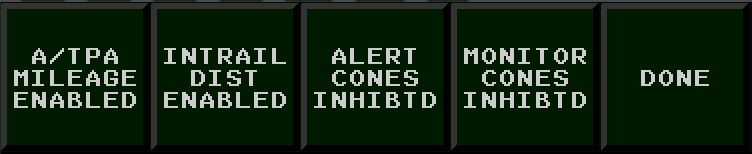
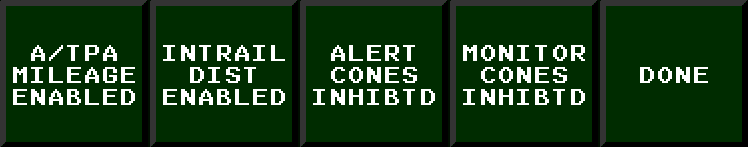
Ongoing documentation work

Changed region(s): [[0.0, 0.0, 1.0, 1.0], [0.0, 0.2993, 0.1845, 0.7347]]

diff --git a/website/index.html b/website/index.html
@@ -1862,9 +1862,8 @@ how it simulates aircraft or the STARS interface.
             <p>The display control bar (DCB) is a menu that is shown by default at the top of the STARS window.
               Many aspects of STARS's behavior can be configured using the DCB.</p>
             <div class="text-center">
-              <img src="dcb-basic.png" srcset="dcb-basic-2x.png 2x" width="1428" height="76" style="max-width: 100%; height:auto;">
-            </div>
-            <br>
+              <img src="dcb-basic.png" srcset="dcb-basic-2x.png 2x" width="1423" height="74"  style="max-width: 100%; height:auto;">
+            </div><br>
             <p>There are four types of buttons in the DCB:</p>
               <ul>
                 <li>Toggle buttons: these enable and disable various features. When enabled, they have a lighter
@@ -1880,8 +1879,8 @@ how it simulates aircraft or the STARS interface.
 
             <p>The main DCB menu offers the following controls:</p>
               <ul>
-                <li>RANGE: sets the range of the radar scope (see <a href="#stars-configuration">STARS Configuration</a>).</li>
-                <li>PLACE CNTR/OFF CNTR: controls to set the center point of the radar scope (see <a href="#stars-configuration">STARS Configuration</a>).</li>
+                <li>RANGE: sets the range of the radar scope (see <a href="#stars-range-center">STARS Configuration</a>).</li>
+                <li>PLACE CNTR/OFF CNTR: controls to set the center point of the radar scope (see <a href="#stars-range-center">STARS Configuration</a>).</li>
                 <li>RR/PLACE RR/RR CNTR: controls for <a href="#stars-range-rings">range rings</a> that are shown on the display</li>
                 <li>MAPS (and the six buttons to the right): controls the <a href="#stars-video-maps">visible video maps</a>.</li>
                 <li>WX*: controls which levels of <a href="#stars-weather">weather intensity</a> are displayed.</li>
@@ -1895,12 +1894,12 @@ how it simulates aircraft or the STARS interface.
               </ul>
             <p>Here is the auxiliary DCB:</p>
             <div class="text-center">
-              <img src="dcb-aux.png" srcset="dcb-aux-2x.png 2x" width="1202" height="76" style="max-width: 100%; height:auto;">
+              <img src="dcb-aux.png" srcset="dcb-aux-2x.png 2x" width="1193" height="75" style="max-width: 100%; height:auto;">
             </div>
             <br>
             <p>Many of its buttons are disabled; the enabled ones are:</p>
               <ul>
-                <li>VOL: controls the volume of STARS audio alerts. A short test sound is played when it is changed.</li>
+                <li>VOL: controls the volume of <a href="#audio-alerts">STARS audio alerts</a>. A short test sound is played when it is changed.</li>
                 <li>HISTORY: sets the number of dots drawn showing the aircraft's <a href="#stars-track-ids-history">radar track history</a>.</li>
                 <li>H_RATE: sets the rate in seconds that a new dot is added to aircraft history trails.</li>
                 <li>DCB LEFT/RIGHT/TOP/BOTTOM: sets the side of the radar scope where the DCB is displayed.</li>
@@ -2139,7 +2138,7 @@ how it simulates aircraft or the STARS interface.
               to a 5 second overall rate.</p>
             <p>The brightness of track symbols is controlled with "HST" in the DCB BRITE menu.</p>
 
-            <h3>Position Symbols</h3>
+            <h3 id="stars-position-symbols">Position Symbols</h3>
 
             <p>All tracks have a single-character <i>position symbol</i> at
               their center that indicates which controller owns the track.
@@ -2642,7 +2641,7 @@ how it simulates aircraft or the STARS interface.
               moves away. Only when another track is approached by the mouse cursor does the brightness increase switch to it.
               </p>
         <div class="text-center">
-          <img src="dwell-dcb.png" srcset="dwell-dcb-2x.png 2x" width="74" height="74">
+          <img src="dwell-dcb.png" srcset="dwell-dcb-2x.png 2x" width="75" height="74">
         </div><br>
       
         <h3 id="stars-altitude-filter">Altitude Filters</h3>
@@ -2697,7 +2696,8 @@ how it simulates aircraft or the STARS interface.
             <h2 class="section-heading">Tools</h2>
 
             <p>STARS offers a variety of tools to help with vectoring aircraft and ensuring they
-            remain separated.</p>
+              remain separated. For most of the tools in this section, the font size is based on the TOOLS font
+              size in the CHAR SIZE menu of the DCB and the brightness is based on the TLS setting in the BRITE menu of the DCB.</p>
 
             <h3 id="stars-collision-alerts">Collision Alerts</h3>
             <p>If there is a loss of separation between aircraft or if STARS predicts an imminent loss of separation, a collision alert will be issued where red text "CA" is shown in the aircraft datablocks and an alert sound will be played. The alert sound continues until one of the aircraft is slewed.  Here is an example of a pair of aircraft with CA alerts:</p>
@@ -2789,7 +2789,7 @@ how it simulates aircraft or the STARS interface.
             <p>PTLs can be controlled using these buttons in the auxiliary DCB menu, which is shown by
               selecting SHIFT from the main DCB.</p>
             <div class="text-center">
-              <img src="ptl-dcb.png" srcset="ptl-dcb-2x.png 2x" width="149" height="76">
+              <img src="ptl-dcb.png" srcset="ptl-dcb-2x.png 2x" width="149" height="75">
             </div>
             <br>
             <p>PTL OWN sets whether PTLs are shown for tracks that are owned by the TCP,
@@ -2814,16 +2814,19 @@ how it simulates aircraft or the STARS interface.
             
             <h3>Range Bearing Lines</h3>
             <p>Range bearing lines (RBLs) track the distance and heading between aircraft and/or fixes.
-              For example, the image below shows an RBL between two aircraft, indicating that WJA466 is 8.46nm
-              miles along a 246 heading for DLH0VZ.  (Alternatively, the RBL could have been set up to be
-              from WJA466 to DLH0VZ, in which case the distance would be the same but the heading would be 246-180=66.
-              The "-1" at the end indicates that this is RBL number 1.  If additional RBLs were created, they would
+              For example, the image below shows an RBL between two aircraft, indicating that N63A is 6.50nm
+              miles along a 118 heading from AAL86.  In this case, the RBL was drawn from AAL86 to N63A; if it
+              had been drawn the other way, the label would be next to AAL86 and the heading would be 118+180=298.
+              The "-1" at the end of the label indicates that this is RBL number 1.  If additional RBLs were created, they would
               be given successive numbers to identify them.
               </p>
             <div class="text-center">
-              <img src="rbl-aircraft.png" srcset="rbl-aircraft-2x.png 2x" width="442" height="198" class="img-fluid" alt="tpa ring">
+              <img src="rbl-aircraft.png" srcset="rbl-aircraft-2x.png 2x" width="228" height="120" class="img-fluid">
             </div>
             <br>
+            <p>RBLs may be created between pairs of aircraft, and aircraft and a fixed location, or a pair of fixed locations.
+              When aircraft are involved, the corresponding RBL endpoint moves along with the aircraft.
+              </p>
             <p>The following commands are available to create and delete RBLs:</p>
               <table class="table table-bordered">
                 <thead>
@@ -2838,7 +2841,7 @@ how it simulates aircraft or the STARS interface.
                     <td>Create an RBL between the two slewed aircraft.</td>
                   </tr>
                   <tr>
-                    <td><code>*T[SLEW]FIX</code> or <code>*TFIX[SLEW]</code></td>
+                    <td><code>*T[SLEW](FIX)</code> or <code>*T(FIX)[SLEW]</code></td>
                     <td>Create an RBL between the slewed aircraft and the fix <code>FIX</code>.</td>
                   </tr>
                   <tr>
@@ -2856,7 +2859,7 @@ how it simulates aircraft or the STARS interface.
 
             <p>The predicted minimum separation between two aircraft can be shown. Below we
               see that based on their current routes the two aircraft are predicted to have
-              a minimum separation of 3.19nm and that separation will occur when they are at
+              a minimum separation of 2.15nm and that separation will occur when they are at
               the two points marked by small triangles.</p>
             <div class="text-center">
               <img src="minsep.png" srcset="minsep-2x.png 2x" width="371" height="106" class="img-fluid" alt="tpa ring">
@@ -2882,8 +2885,6 @@ how it simulates aircraft or the STARS interface.
                 </tbody>
               </table>
 
-              <p>TODO: BRITE (here and elsewhere)</p>
-            
             <h3 id="stars-tpa-atpa">TPA/ATPA</h3>
 
             <p>The terminal proximity alert (TPA) and automated TPA (ATPA) tools provide graphical representations that aid
@@ -2968,6 +2969,8 @@ how it simulates aircraft or the STARS interface.
               <img src="atpa-alert.png" srcset="atpa-alert-2x.png 2x" width="365" height="287" class="img-fluid" alt="ATPA alert cone">
             </div>
             <br>
+            <p>This table shows the minimum in-trail distances required by ATPA for aircraft on approaches; NOWGT is used
+              if the weight class of an aircraft is unknown:</p>
               <table class="table table-bordered">
                 <thead>
                   <tr>
@@ -3028,7 +3031,7 @@ how it simulates aircraft or the STARS interface.
             <p>TPA and ATPA can be configured by selecting "SHIFT" from the main DCB menu and then "TPA/ATPA".
               The following options are provided:</p>
             <div class="text-center">
-              <img src="tpa-atpa-dcb.png" srcset="tpa-atpa-dcb-2x.png 2x" width="376" height="77" class="img-fluid" alt="tpa/atpa DCB menu">
+              <img src="tpa-atpa-dcb.png" srcset="tpa-atpa-dcb-2x.png 2x" width="374" height="74">
             </div>
             <br>
             <p>The first four buttons toggle a particular TPA/ATPA option and display "ENABLED" if the corresponding option is enabled, and "INHIBTD" if it is inhibited. "DONE" returns to the previous DCB menu.</p>
@@ -3122,18 +3125,20 @@ how it simulates aircraft or the STARS interface.
             <div class="text-center">
               <img src="rr-example.png" srcset="rr-example-2x.png 2x" width="362" height="370">
             </div><br>
-            <p>The brightness of range rings can be controlled with the "RR" spinner in the "BRITE" menu of the main DCB.
-              If the brightness is set to 0, range rings are not drawn. A few buttons on the main DCB make it possible to
-              configure range rings.  Clicking on "RR" activates a spinner that allows selecting the step between radii.
-              If "PLACE RR" is clicked, then the next location clicked on the radar scope will become the range rings' center point.
-              Finally, clicking "RR CNTR" causes the range rings to be centered on the point at the center of the radar scope.
+            <p>A few buttons on the main DCB make it possible to
+              configure range rings.  Clicking on RR activates a spinner that allows selecting the step between radii.
+              If PLACE RR is clicked, then the next location clicked on the radar scope will become the range rings' center point.
+              Finally, clicking RR CNTR causes the range rings to be centered on the point at the center of the radar scope;
+              If the range rings are not currently centered, RR CNTR is drawn depressed.
             </p>
             <div class="text-center">
-              <img src="rr-buttons.png" srcset="rr-buttons-2x.png 2x" width="151" height="75" class="img-fluid" alt="Range rings buttons on the DCB">
+              <img src="rr-buttons.png" srcset="rr-buttons-2x.png 2x" width="149" height="76">
             </div>
             <br>
             <p>The radius of the range rings can also be set by entering <code>[RANGE]</code> and then 2, 5, 10, or 20, and then pressing enter.
             </p>
+            <p>The brightness of range rings can be controlled with the "RR" spinner in the "BRITE" menu of the main DCB.
+              If the brightness is set to 0, range rings are not drawn. </p>
             
               <h3 id="crda">CRDA</h3>
 
@@ -3267,7 +3272,8 @@ how it simulates aircraft or the STARS interface.
                 </tbody>
               </table>
               
-            <h3 id="airspace" class="section-heading">Airspace</h3>
+              <h3 id="airspace" class="section-heading">Airspace</h3>
+              <p><i>Note: this feature is not present in real-world STARS.</i></p>
             <p>
               <i>vice</i> is able to indicate when aircraft are outside of the departure or approach airspace,
               if it has information about the airspace boundaries.
@@ -3281,7 +3287,7 @@ how it simulates aircraft or the STARS interface.
             <div class="text-center">
               <img src="violation.png" srcset="violation-2x.png 2x" width="136" height="66">
             </div>
-
+            <br>
             <p>
               Two commands are available to draw the boundaries and altitude ranges of the departure and approach airspace.
               (Note that the placement of the drawn altitude labels is not always ideal.)
@@ -3311,18 +3317,90 @@ how it simulates aircraft or the STARS interface.
 
             <h2 class="section-heading">STARS Configuration</h2>
 
-            <h3 id="stars-character-size">Character Size</h3>
+            <h3 id="stars-range-center">Range and Center</h3>
+
+            <p>The left side of the main DCB has a few buttons for controlling the range of the STARS scope
+              and where it is centered:</p>
+            <div class="text-center">
+              <img src="dcb-range-center.png" srcset="dcb-range-center-2x.png 2x" width="151" height="75">
+            </div><br>
+            <p>Clicking on RANGE activates the range spinner, which allows setting the scope range to be between
+              6 and 256 nautical miles. The center of the scope can be changed by clicking PLACE CNTR and clicking
+              in the scope. Finally, OFF CNTR is shown as depressed when the scope's center is
+              different than the default center specified in the scenario configuration. Clicking on it
+              restores the center to the default.
+              </>
+
+            <p>Alternatively, center of the radar scope can be moved by
+            clicking the right mouse button and dragging.  Zoom in and out
+            using the mouse wheel; each step increases or decreases the
+            radius shown by one nautical mile.  Holding down the control
+            key while using the mouse wheel gives three mile steps in the
+            radius.  Zooming and panning the scope in this way can be disabled
+            with <i>vice</i>'s settings window, which is displayed when
+            the <i class="fas fa-cog"></i> in the menubar is clicked.
+              </p>
             
+            <h3 id="stars-character-size">Character Size</h3>
+
+            <p>Clicking the CHAR SIZE button in the main DCB brings up the character size DCB menu, shown here:</p>
+            <div class="text-center">
+              <img src="dcb-char-size.png" srcset="dcb-char-size-2x.png 2x" width="450" height="75">
+            </div><br>
+            <p>The sizes controlled by the buttons are:</p>
+            <ul>
+              <li>DATA BLOCKS: <a href="#tracks-datablocks">data block</a> text.</li>
+              <li>LISTS: STARS <a href="#stars-system-lists">system lists</a>.</li>
+              <li>DCB: text in the DCB.</li>
+              <li>TOOLS: the various <a href="#stars-tools">STARS tools</a>.</li>
+              <li>POS: track <a href="#stars-position-symbols">position symbols</a></li>
+            </ul>
+            <p>Clicking DONE returns to the main DCB.</p>
+            <p>All types of character sizes may range from 0 to 5, except for DCB, which goes from 0 to 2.</p> 
+
             <h3 id="stars-brightness">Brightness</h3>
+
+            <p>Selecting the BRITE button in the main DCB brings up the brightness DCB menu, shown here:</p>
+            <div class="text-center">
+              <img src="dcb-brite.png" srcset="dcb-brite-2x.png 2x" width="675" height="75">
+            </div><br>
+            <p>The item brightness that the buttons control are:</p>
+            <ul>
+              <li>DCB:</li>
+              <li>MPA:</li>
+              <li>FDB:</li>
+              <li>POS:</li>
+              <li>OTH:</li>
+              <li>RR:</li>
+              <li>BCN:</li>
+              <li>HST:</li>
+              <li>WXC:</li>
+              <li>BKC:</li>
+              <li>MPB:</li>
+              <li>LST:</li>
+              <li>LDB:</li>
+              <li>TLS:</li>
+              <li>CMP:</li>
+              <li>PRI:</li>
+              <li>WX:</li>
+            </ul>
+            <p>Some of these brightnesses can be set to 0, in which case "OFF" is shown in the BRITE menu and 
+              the corresponding item isn't drawn at all. Others have a minimum required brightness.</p>
             
             <h3 id="stars-radar-site">RADAR Sites</h3>
+
+            "SITE" from main DCB, showing mode: FUSED, MULTI, SINGLE.
+
+            <div class="text-center">
+              <img src="dcb-radar.png" srcset="dcb-radar-2x.png 2x" width="1351" height="75" style="max-width: 100%; height:auto;">
+            </div><br>
 
             <h3 id="audio-alerts">Audio</h3>
 
             <p>Audio alerts are played when there is a minimum safe altitude warning for an aircraft,
               if an aircraft is squawking a special purpose code (e.g., 7700 for an emergency),
               it a SPC has been manually assigned to an aircraft, or if there is a conflict alert between
-              two aircraft.  The "VOL" control in the DCB can be used to control the volume of these alerts.
+              two aircraft.  The "VOL" control in the main DCB can be used to control the volume of these alerts.
             </p>
             <p>A few keyboard commands can be used to control audio:</p>
               <table class="table table-bordered">
@@ -3353,26 +3431,24 @@ how it simulates aircraft or the STARS interface.
 
             <h3 id="stars-preferences">Preferences</h3>
 
-            
-            <!-- range, video maps, place cntr, off cntr, maps, maps dcb menu, brite, char size,  -->
+            PREF from main DCB
+
+            <div class="text-center">
+              <img src="dcb-prefs.png" srcset="dcb-prefs-2x.png 2x" width="1495" height="76" style="max-width: 100%; height:auto;">
+            </div><br>            
+
           </section>
           
 
 	  <section class="docs-section" id="stars-display-elements">
             <h2 class="section-heading">Display Elements</h2>
 
-            <p>The center of the radar scope can be moved by clicking the
-            right mouse button and dragging.  Zoom in and out using the
-            mouse wheel; each step increases or decreases the radius shown
-            by one nautical mile.  Holding down the control key while using
-              the mouse wheel gives three mile steps in the radius.  Zooming and
-              panning the scope can be disabled with <i>vice</i>'s settings window,
-              which is displayed when the <i class="fas fa-cog"></i> in the menubar is clicked.
-              </p>
+            <p>In addition to radar tracks and their datablocks, the STARS display contains 
+              various <i>system lists</i> that display useful text information,
+              <i>video maps</i> that provide maps for the local control area, and, optionally,
+              a weather radar showing precipitation. These are all described in this section.</p>
 
-            <!-- DCB RANGE, MAPS -->
-
-            <h3>System Lists</h3>
+            <h3 id="stars-system-lists">System Lists</h3>
             <p>The system lists show various types of useful information in the form of text.  Their font size can be adjusted using the "LISTS" control in the "CHAR SIZE" DCB menu and their brightness is set with "LST" in the "BRITE" DCB menu. 
             </p>
             <p><i>vice</i> currently doesn't support two STARS system
@@ -3388,8 +3464,8 @@ above</a> for information about the CRDA system list.</p>
               <img src="ssa-system-list.png" srcset="ssa-system-list-2x.png 2x" width="209" height="128">
             </div>
             <br>
-            <p>The red triangle indicates that STARS is functioning correctly; in <i>vice</i> it will always be there. The first line of text shows the current zulu time 06:12:27 and the altimeter at the primary airport, JFK. The following line shows the network status (always "OK/OK/NA" in <i>vice</i>) as well as the current radar mode, which may be "FUSED", "MULTI", or "SINGLE". Next is the current range shown from the scope's center, 41nm, and the length of predicted track lines (PTLs). Next are the altitude filters, first for unassociated tracks and then for associated tracks (both in hundreds of feet.) The next few lines show the altimeter at nearby airports.</p>
-            <p>A few lines are only shown when corresponding features are enabled. Here, "QL: 4P" indicates that sector id 4P has been <a href="#quicklook">quicklooked</a> and "TW OFF: MSAW" indicates that <a href="#stars-msaw">MSAW</a> has been disabled system-wide.  When <a href="#crda">CRDA</a> is enabled for a runway pair, an indication is shown here as well.</p>
+            <p>The red triangle indicates that STARS is functioning correctly; in <i>vice</i> it will always be there. The first line of text shows the current zulu time 03:07:27 and the altimeter at the primary airport, PHL. The following line shows the network status (always "OK/OK/NA" in <i>vice</i>) as well as the current radar mode, which may be "FUSED", "MULTI", or "SINGLE". Next is the current range shown from the scope's center, 17nm, and the length of predicted track lines (PTLs), 0.5 minutes. Next are the altitude filters, first for unassociated tracks and then for associated tracks (both in hundreds of feet.) The next few line again shows the altimeter at PHL.</p>
+            <p>A few lines are only shown when corresponding features are enabled. Here, "QL: 6S" indicates that TCP 6S has been <a href="#quicklook">quicklooked</a> and "TW OFF: MSAW" indicates that <a href="#stars-msaw">MSAW</a> has been disabled system-wide.  Finally, we can see that <a href="#crda">CRDA</a> has been enabled for the runway pair 27R/17, with the "S" indicating "stagger" mode.</p>
             <p>Only one keyboard command is available to control the SSA list.</p>
               <table class="table table-bordered">
                 <thead>
@@ -3408,7 +3484,7 @@ above</a> for information about the CRDA system list.</p>
 
             <p>Which elements are displayed in the SSA list can be configured by selecting the "SSA FILTER" menu from the main DCB.</p> 
             <div class="text-center">
-              <img src="ssa-filter-dcb.png" srcset="ssa-filter-dcb-2x.png 2x" width="975" height="75" class="img-fluid" alt="tpa ring">
+              <img src="ssa-filter-dcb.png" srcset="ssa-filter-dcb-2x.png 2x" width="975" height="76" class="img-fluid">
             </div>
             <br>
             <p>The buttons toggle display of the following elements:</p>
@@ -3512,14 +3588,12 @@ above</a> for information about the CRDA system list.</p>
               a blue-grey color. When there is no precipitation at a level, the corresponding button has the regular green color.
             </p>
             <div class="text-center">
-              <img src="wx-buttons.png" srcset="wx-buttons-2x.png 2x" width="230" height="77"  class="img-fluid" alt="WX buttons on DCB">
+              <img src="wx-buttons.png" srcset="wx-buttons-2x.png 2x" width="227" height="74">
             </div>
             <br>
-            <p>With the selection above, the two lowest levels, WX1 and WX2, are not shown, while all of the higher levels
+            <p>With the selection above, the three lowest levels, WX1 and WX2 are not shown, while all of the higher levels
               of precipitation are.</p>
 
-            
-            <!-- <p>TODO: the various lists, BRITE, font size, PREF, SSA FILTER, GI TEXT FILTER, DCB POSITION...</p> -->
           </section>
 
           </article>
